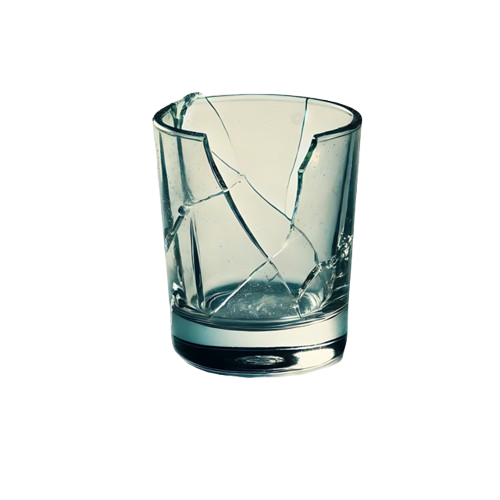
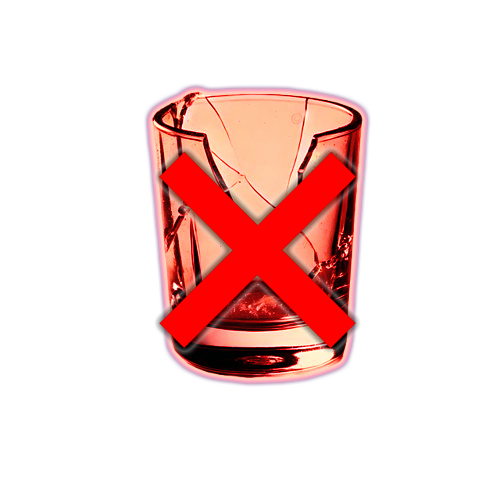
adjusting render and pictures

Changed region(s): [[0.27, 0.15, 0.75, 0.78]]

diff --git a/frontend/promo-frontend/src/app/pages/game/games/catch-the-jager.component.html b/frontend/promo-frontend/src/app/pages/game/games/catch-the-jager.component.html
@@ -12,39 +12,36 @@
       </p>
     </div>
     <div class="grid grid-cols-3 gap-3 w-full max-w-xs">
-  <div class="bg-black/40 border border-jager-orange/20 rounded-xl p-3 text-center flex flex-col items-center justify-between">
-    <div class="h-10 w-10 mb-2 flex items-center justify-center">
-      <img src="/assets/drop.png" alt="Jäger csepp" class="max-h-full max-w-full" style="filter: drop-shadow(0 0 8px rgba(243,112,33,0.7));">
-    </div>
-    <div>
-      <div class="text-xs text-jager-orange font-bold">+5%</div>
-      <div class="text-[10px] text-gray-400">Jäger csepp</div>
-    </div>
-  </div>
+      <div class="bg-black/40 border border-jager-orange/20 rounded-xl p-3 text-center flex flex-col items-center justify-between">
+        <div class="h-10 w-10 mb-2 flex items-center justify-center">
+          <img src="/assets/drop.png" alt="Jäger csepp" class="max-h-full max-w-full">
+        </div>
+        <div>
+          <div class="text-xs text-jager-orange font-bold">+5%</div>
+          <div class="text-[10px] text-gray-400">Jäger csepp</div>
+        </div>
+      </div>
 
-  <div class="bg-black/40 border border-blue-500/20 rounded-xl p-3 text-center flex flex-col items-center justify-between">
-    <div class="h-10 w-10 mb-2 flex items-center justify-center">
-      <img src="/assets/ice.png" alt="Jégkocka" class="max-h-full max-w-full drop-shadow-[0_0_8px_rgba(59,130,246,0.5)]">
-    </div>
-    <div>
-      <div class="text-xs text-blue-300 font-bold">+3%</div>
-      <div class="text-[10px] text-gray-400">Jégkocka</div>
-    </div>
-  </div>
+      <div class="bg-black/40 border border-blue-500/20 rounded-xl p-3 text-center flex flex-col items-center justify-between">
+        <div class="h-10 w-10 mb-2 flex items-center justify-center">
+          <img src="/assets/ice.png" alt="Jégkocka" class="max-h-full max-w-full">
+        </div>
+        <div>
+          <div class="text-xs text-blue-300 font-bold">+3%</div>
+          <div class="text-[10px] text-gray-400">Jégkocka</div>
+        </div>
+      </div>
 
-  <div class="bg-black/40 border border-red-500/20 rounded-xl p-3 text-center flex flex-col items-center justify-between">
-    <div class="h-10 w-10 mb-2 relative flex items-center justify-center">
-      <img src="/assets/broken.png" alt="Törött" class="max-h-full max-w-full opacity-80" style="filter: drop-shadow(0 0 8px rgba(248,113,113,0.8));">
-      <div class="absolute inset-0 flex items-center justify-center text-red-500 font-black text-3xl drop-shadow-md pointer-events-none" style="text-shadow: 0 0 4px #000;">
-        ✕
+      <div class="bg-black/40 border border-red-500/20 rounded-xl p-3 text-center flex flex-col items-center justify-between">
+        <div class="h-10 w-10 mb-2 relative flex items-center justify-center">
+          <img src="/assets/broken.png" alt="Törött" class="max-h-full max-w-full opacity-80">
+          </div>
+        <div>
+          <div class="text-xs text-red-400 font-bold">-15%</div>
+          <div class="text-[10px] text-gray-400">Kerüld!</div>
+        </div>
       </div>
     </div>
-    <div>
-      <div class="text-xs text-red-400 font-bold">-15%</div>
-      <div class="text-[10px] text-gray-400">Kerüld!</div>
-    </div>
-  </div>
-</div>
     <button
       (click)="startGame()"
       class="w-full max-w-xs py-4 bg-jager-orange hover:bg-orange-500 text-black font-extrabold text-lg rounded-2xl transition-colors tracking-widest uppercase"

diff --git a/frontend/promo-frontend/src/app/pages/game/games/jager.component.ts b/frontend/promo-frontend/src/app/pages/game/games/jager.component.ts
@@ -321,29 +321,14 @@ export class CatchTheJagerComponent implements OnInit, OnDestroy {
     for (const item of this.items) {
       const s = item.radius * 2;
 
+      
       if (item.type === 'drop') {
-        ctx.shadowColor = 'rgba(243,112,33,0.6)';
-        ctx.shadowBlur = 6;
-        ctx.drawImage(this.imgDrop, item.x - s * 0.5, item.y - s * 0.8, s, s * 1.4);
+        this.ctx.drawImage(this.imgDrop, item.x - s * 0.5, item.y - s * 0.8, s, s * 1.4);
       } else if (item.type === 'ice') {
-        ctx.shadowColor = 'rgba(59,130,246,0.5)';
-        ctx.shadowBlur = 8;
-        ctx.drawImage(this.imgIce, item.x - s * 0.5, item.y - s * 0.5, s, s);
+        this.ctx.drawImage(this.imgIce, item.x - s * 0.5, item.y - s * 0.5, s, s);
       } else {
-        ctx.globalAlpha = 0.8;
-        ctx.shadowColor = 'rgba(248,113,113,0.8)';
-        ctx.shadowBlur = 8;
-        ctx.drawImage(this.imgBroken, item.x - s * 0.5, item.y - s * 0.5, s, s);
-        
-        ctx.globalAlpha = 1.0;
-        ctx.shadowBlur = 0;
-        ctx.fillStyle = '#ef4444';
-        ctx.font = '900 24px sans-serif';
-        ctx.textAlign = 'center';
-        ctx.textBaseline = 'middle';
-        ctx.fillText('✕', item.x, item.y);
+        this.ctx.drawImage(this.imgBroken, item.x - s * 0.5, item.y - s * 0.5, s, s);
       }
-      ctx.shadowBlur = 0;
     }
   }
 
